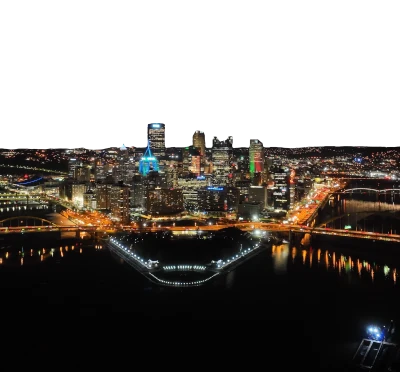
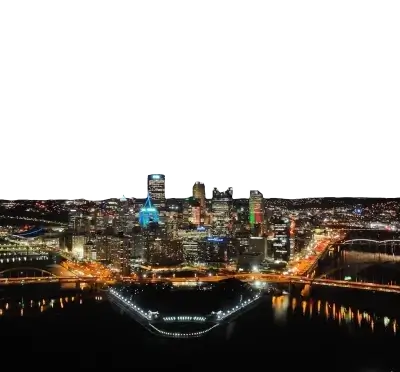
responsive images
responsive images

diff --git a/resources/views/components/hero.blade.php b/resources/views/components/hero.blade.php
@@ -23,13 +23,10 @@
     @if (request()->routeIs('home'))
         {{--<img src="{{ asset('img/' . $img) }}" class="absolute left-1/2 top-1/2 -translate-x-1/2 -translate-y-1/2 h-3/4" />--}}
     @else
-        <img
-            srcset="{{ asset('img/' . $information->img_mobile) }} 1120w, {{ asset('img/' . $information->img) }} 1500w"
-            sizes="(max-width: 600px) 1120px, 1500px"
-            src="{{ asset('img/' . $information->img) }}"
-            class="absolute w-full object-cover h-3/4 bottom-0 left-0"
-            alt="{{ $information->title }}"
-        >
+        <picture class="absolute w-full object-cover h-3/4 bottom-0 left-0">
+            <source srcset="{{ asset('img/' . $information->img) }}" media="(min-width: 600px)" />
+            <img src="{{ asset('img/' . $information->img_mobile) }}" alt="{{ $information->title }}" />
+        </picture>
     @endif
     <h1 class="z-[2] w-full font-extrabold text-4xl md:text-7xl lg:text-8xl font-mont text-brand-primary uppercase typing mb-2 md:mb-6 lg:mb-12">Zenivora</h1>
     <h2 class="hidden lg:block span loader uppercase zoom-out font-roboto">

diff --git a/app/Services/RenoNVService.php b/app/Services/RenoNVService.php
@@ -36,7 +36,7 @@ class RenoNVService implements LocationServiceInterface
         $data->title = 'Reno Website Designers';
         $data->description = 'Elevate your brand with Zenivora, the leading Reno Website Designers. Expertise in responsive design, SEO, and e-commerce solutions. Based in Reno, NV.';
         $data->img = 'reno-background-desktop.webp';
-        $data->img_mobile = 'reno-background-mobile.webp';
+        $data->img_mobile = 'pittsburgh-city-mobile.webp';
 
         return $data;
     }
